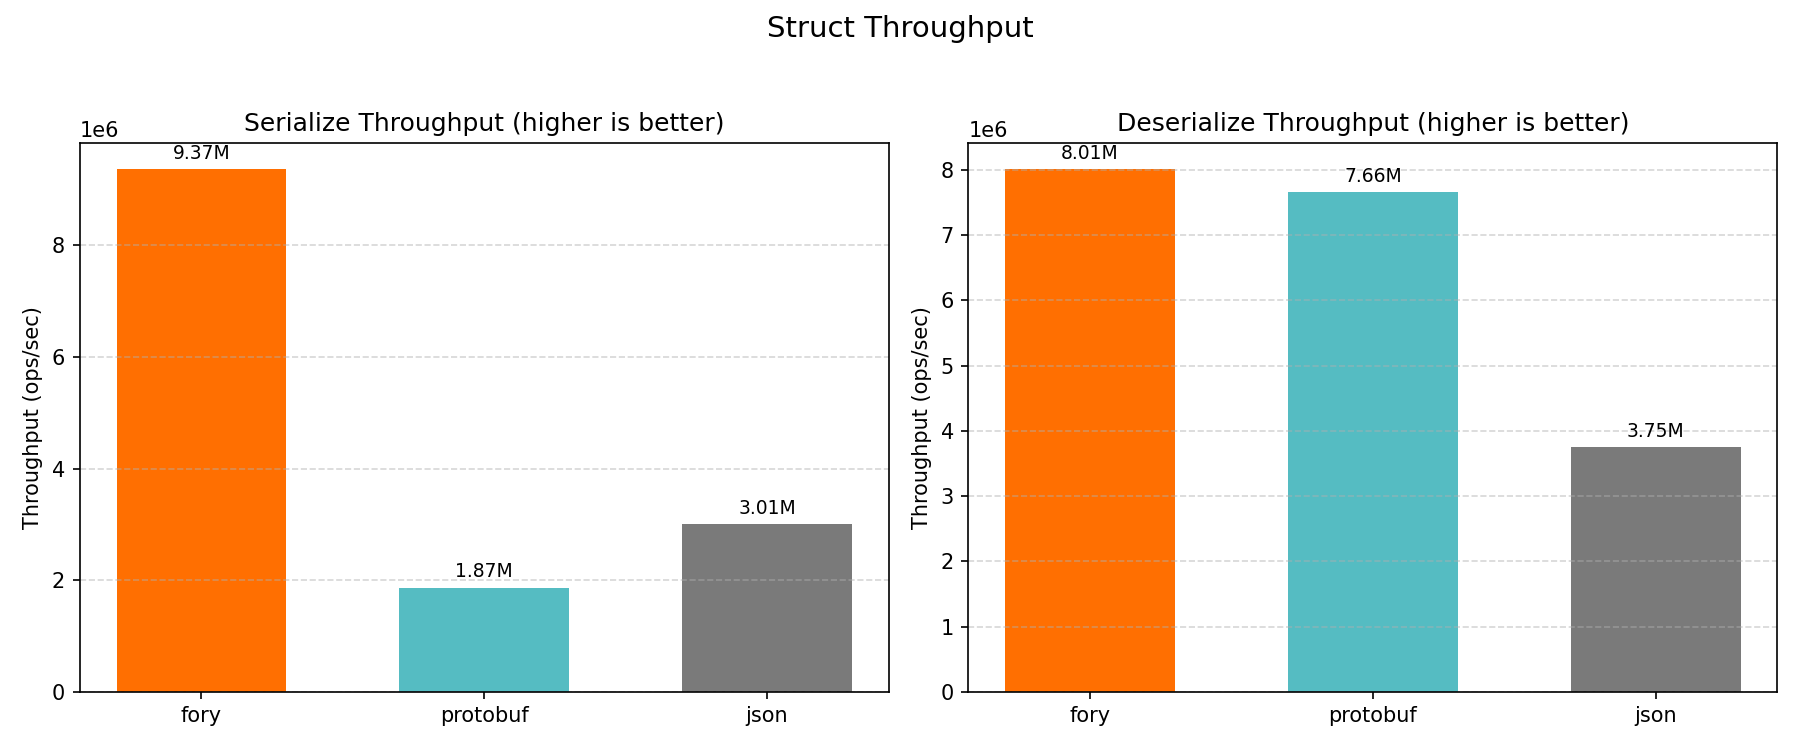
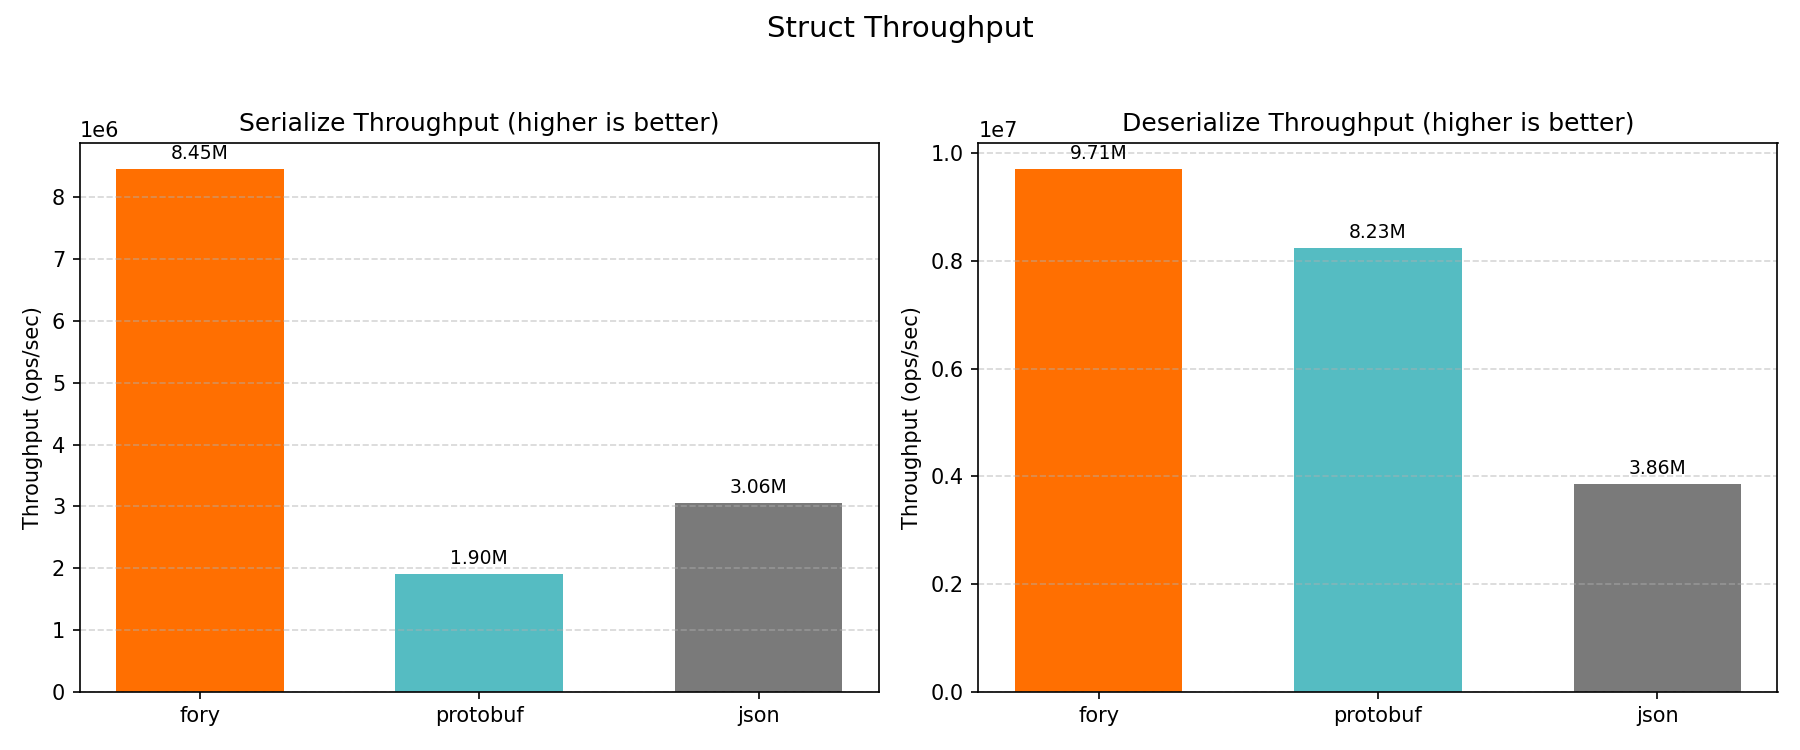
docs(javascript): update benchmark results after perf optimizations
Fory now wins all MediaContent benchmarks:
- MediaContent ser: 773ns (was 849ns), faster than JSON 769ns
- MediaContent deser: 611ns (was 1075ns), faster than Protobuf 827ns
- MediaContentList ser: 3496ns (was 3829ns), faster than JSON 3541ns
- MediaContentList deser: 2654ns (was 4993ns), faster than Protobuf 4088ns

diff --git a/javascript/packages/core/lib/reader/index.ts b/javascript/packages/core/lib/reader/index.ts
@@ -45,9 +45,9 @@ export class BinaryReader {
     // Reuse DataView when the underlying ArrayBuffer, byteOffset, and byteLength are unchanged.
     const buf = this.platformBuffer.buffer;
     if (buf !== this.cachedArrayBuffer
-        || !this.dataView
-        || this.dataView.byteOffset !== this.platformBuffer.byteOffset
-        || this.dataView.byteLength !== this.byteLength) {
+      || !this.dataView
+      || this.dataView.byteOffset !== this.platformBuffer.byteOffset
+      || this.dataView.byteLength !== this.byteLength) {
       this.dataView = new DataView(buf, this.platformBuffer.byteOffset, this.byteLength);
       this.cachedArrayBuffer = buf;
     }

diff --git a/docs/benchmarks/javascript/README.md b/docs/benchmarks/javascript/README.md
@@ -1,6 +1,6 @@
 # JavaScript Benchmark Performance Report
 
-_Generated on 2026-04-14 15:32:27_
+_Generated on 2026-04-14 17:11:43_
 
 ## How to Generate This Report
 
@@ -19,7 +19,7 @@ cd benchmarks/javascript
 | CPU Cores (Physical)       | 12                       |
 | CPU Cores (Logical)        | 12                       |
 | Total RAM (GB)             | 48.0                     |
-| Benchmark Date             | 2026-04-14T07:30:36.278Z |
+| Benchmark Date             | 2026-04-14T09:09:51.959Z |
 | CPU Cores (from benchmark) | 12                       |
 | Node.js                    | v22.20.0                 |
 | V8                         | 12.4.254.21-node.33      |
@@ -60,37 +60,37 @@ All class-level plots below show throughput (ops/sec).
 
 ### Timing Results (nanoseconds)
 
-| Datatype         | Operation   | fory (ns) | protobuf (ns) | json (ns) | Fastest  |
-| ---------------- | ----------- | --------- | ------------- | --------- | -------- |
-| Struct           | Serialize   | 106.8     | 535.1         | 332.4     | fory     |
-| Struct           | Deserialize | 124.8     | 130.5         | 266.8     | fory     |
-| Sample           | Serialize   | 628.6     | 2394.6        | 1378.8    | fory     |
-| Sample           | Deserialize | 679.7     | 1232.9        | 1418.1    | fory     |
-| MediaContent     | Serialize   | 848.8     | 1416.7        | 786.4     | json     |
-| MediaContent     | Deserialize | 1074.5    | 819.8         | 1118.3    | protobuf |
-| StructList       | Serialize   | 317.1     | 2072.9        | 1140.1    | fory     |
-| StructList       | Deserialize | 413.2     | 728.5         | 1080.2    | fory     |
-| SampleList       | Serialize   | 2983.5    | 9541.6        | 6226.3    | fory     |
-| SampleList       | Deserialize | 3128.0    | 6236.3        | 6321.1    | fory     |
-| MediaContentList | Serialize   | 3828.5    | 7050.9        | 3688.2    | json     |
-| MediaContentList | Deserialize | 4992.5    | 4360.3        | 5396.4    | protobuf |
+| Datatype         | Operation   | fory (ns) | protobuf (ns) | json (ns) | Fastest |
+| ---------------- | ----------- | --------- | ------------- | --------- | ------- |
+| Struct           | Serialize   | 118.3     | 525.3         | 327.0     | fory    |
+| Struct           | Deserialize | 103.0     | 121.5         | 259.0     | fory    |
+| Sample           | Serialize   | 667.4     | 2366.2        | 1342.7    | fory    |
+| Sample           | Deserialize | 521.3     | 1221.0        | 1312.3    | fory    |
+| MediaContent     | Serialize   | 773.3     | 1370.8        | 769.3     | json    |
+| MediaContent     | Deserialize | 610.5     | 827.0         | 1085.6    | fory    |
+| StructList       | Serialize   | 254.6     | 2017.6        | 1121.3    | fory    |
+| StructList       | Deserialize | 306.3     | 653.7         | 1014.1    | fory    |
+| SampleList       | Serialize   | 2812.3    | 10782.7       | 6130.4    | fory    |
+| SampleList       | Deserialize | 2353.4    | 6125.5        | 6153.1    | fory    |
+| MediaContentList | Serialize   | 3495.9    | 6712.4        | 3540.5    | fory    |
+| MediaContentList | Deserialize | 2653.7    | 4087.9        | 5258.9    | fory    |
 
 ### Throughput Results (ops/sec)
 
-| Datatype         | Operation   | fory TPS  | protobuf TPS | json TPS  | Fastest  |
-| ---------------- | ----------- | --------- | ------------ | --------- | -------- |
-| Struct           | Serialize   | 9,366,643 | 1,868,870    | 3,008,589 | fory     |
-| Struct           | Deserialize | 8,012,212 | 7,661,344    | 3,748,390 | fory     |
-| Sample           | Serialize   | 1,590,714 | 417,612      | 725,249   | fory     |
-| Sample           | Deserialize | 1,471,175 | 811,093      | 705,147   | fory     |
-| MediaContent     | Serialize   | 1,178,111 | 705,890      | 1,271,668 | json     |
-| MediaContent     | Deserialize | 930,701   | 1,219,807    | 894,205   | protobuf |
-| StructList       | Serialize   | 3,153,309 | 482,413      | 877,109   | fory     |
-| StructList       | Deserialize | 2,420,060 | 1,372,723    | 925,751   | fory     |
-| SampleList       | Serialize   | 335,172   | 104,804      | 160,610   | fory     |
-| SampleList       | Deserialize | 319,696   | 160,351      | 158,199   | fory     |
-| MediaContentList | Serialize   | 261,198   | 141,826      | 271,133   | json     |
-| MediaContentList | Deserialize | 200,301   | 229,342      | 185,308   | protobuf |
+| Datatype         | Operation   | fory TPS  | protobuf TPS | json TPS  | Fastest |
+| ---------------- | ----------- | --------- | ------------ | --------- | ------- |
+| Struct           | Serialize   | 8,453,950 | 1,903,706    | 3,058,232 | fory    |
+| Struct           | Deserialize | 9,705,287 | 8,233,664    | 3,860,538 | fory    |
+| Sample           | Serialize   | 1,498,391 | 422,620      | 744,790   | fory    |
+| Sample           | Deserialize | 1,918,162 | 819,010      | 762,048   | fory    |
+| MediaContent     | Serialize   | 1,293,157 | 729,497      | 1,299,908 | json    |
+| MediaContent     | Deserialize | 1,638,086 | 1,209,140    | 921,191   | fory    |
+| StructList       | Serialize   | 3,928,325 | 495,648      | 891,810   | fory    |
+| StructList       | Deserialize | 3,264,827 | 1,529,744    | 986,144   | fory    |
+| SampleList       | Serialize   | 355,581   | 92,741       | 163,120   | fory    |
+| SampleList       | Deserialize | 424,916   | 163,253      | 162,520   | fory    |
+| MediaContentList | Serialize   | 286,053   | 148,977      | 282,445   | fory    |
+| MediaContentList | Deserialize | 376,826   | 244,622      | 190,155   | fory    |
 
 ### Serialized Data Sizes (bytes)
 
@@ -98,7 +98,7 @@ All class-level plots below show throughput (ops/sec).
 | ---------------- | ---- | -------- | ---- |
 | Struct           | 58   | 61       | 103  |
 | Sample           | 446  | 377      | 724  |
-| MediaContent     | 365  | 307      | 596  |
+| MediaContent     | 391  | 307      | 596  |
 | StructList       | 184  | 315      | 537  |
 | SampleList       | 1980 | 1900     | 3642 |
-| MediaContentList | 1535 | 1550     | 3009 |
+| MediaContentList | 1665 | 1550     | 3009 |
